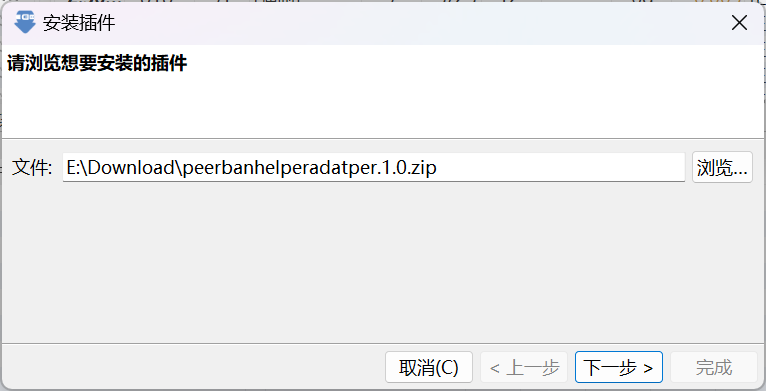
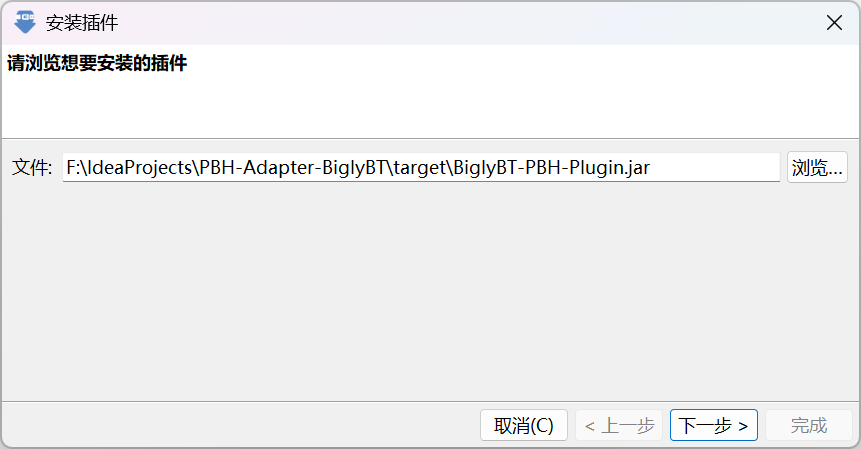
fix biglybt

diff --git a/docs/downloader/BiglyBT.md b/docs/downloader/BiglyBT.md
@@ -30,7 +30,7 @@ PeerBanHelper 将借助 BiglyBT 的插件系统连接到 BiglyBT。
 
 ## 安装 PBH-BiglyBT/PBH-Azureus 适配器
 
-下载 BiglyBT 适配器：[PBH-BTN/PBH-Adapter-BiglyBT](https://github.com/PBH-BTN/PBH-Adapter-BiglyBT/releases)
+下载 BiglyBT 适配器：[PBH-BTN/PBH-Adapter-BiglyBT](https://github.com/PBH-BTN/PBH-Adapter-BiglyBT/releases)，下载时请选择以 .jar 结尾的 JAR 包
 下载 Azureus/Vuze 适配器：[PBH-BTN/PBH-Adapter-Azureus](https://github.com/PBH-BTN/PBH-Adapter-Azureus/releases)
 
 接下来的过程大同小异。
@@ -39,7 +39,7 @@ PeerBanHelper 将借助 BiglyBT 的插件系统连接到 BiglyBT。
 
 ![step3](assets/BiglyBT-step3.png)
 
-选中刚刚下载的压缩包下一步安装。
+选中刚刚下载的 JAR 包下一步安装。
 
 ![step4](assets/BiglyBT-step4.png)
 
